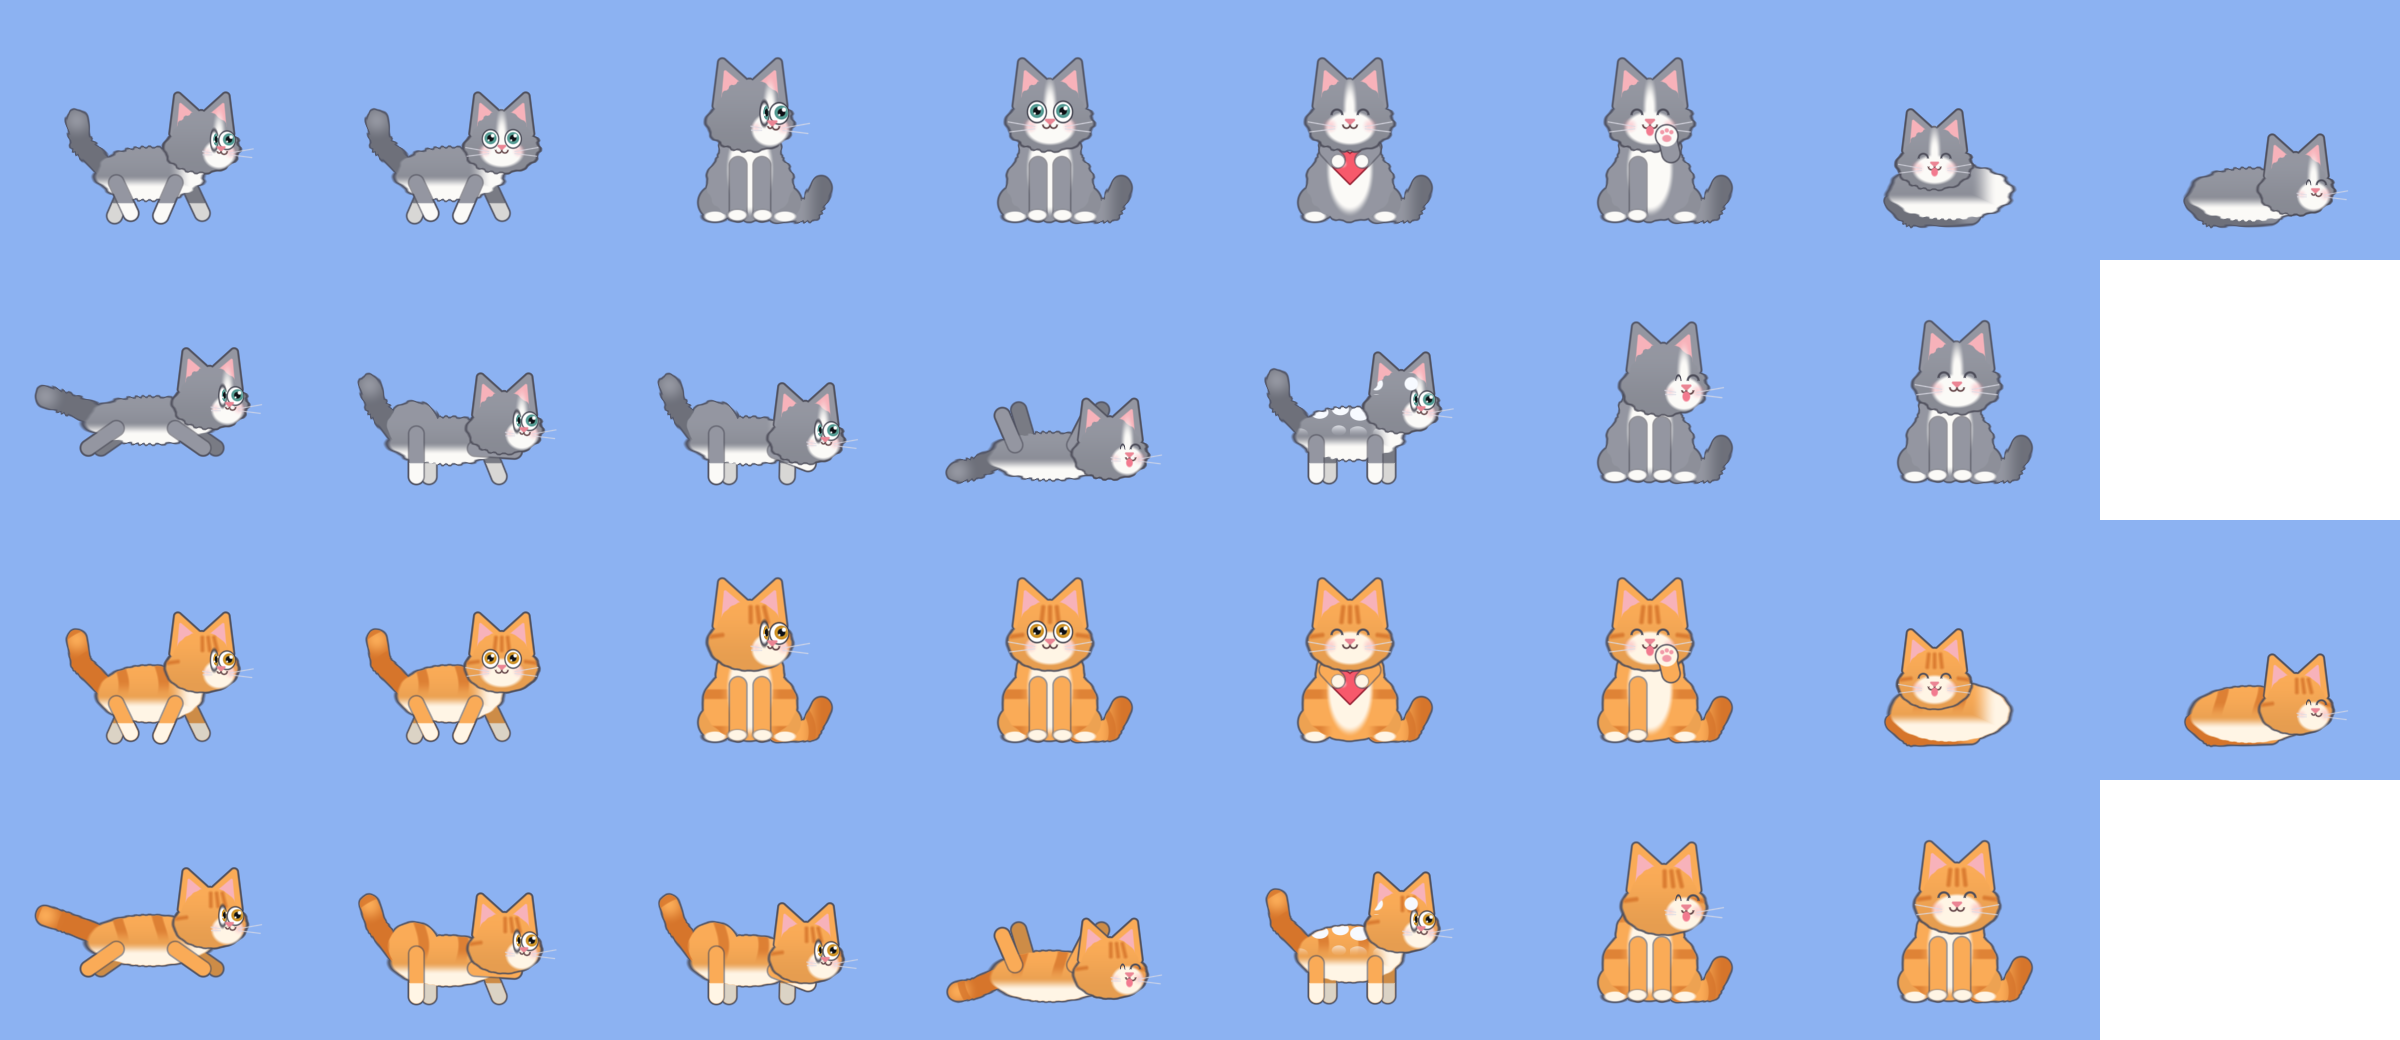
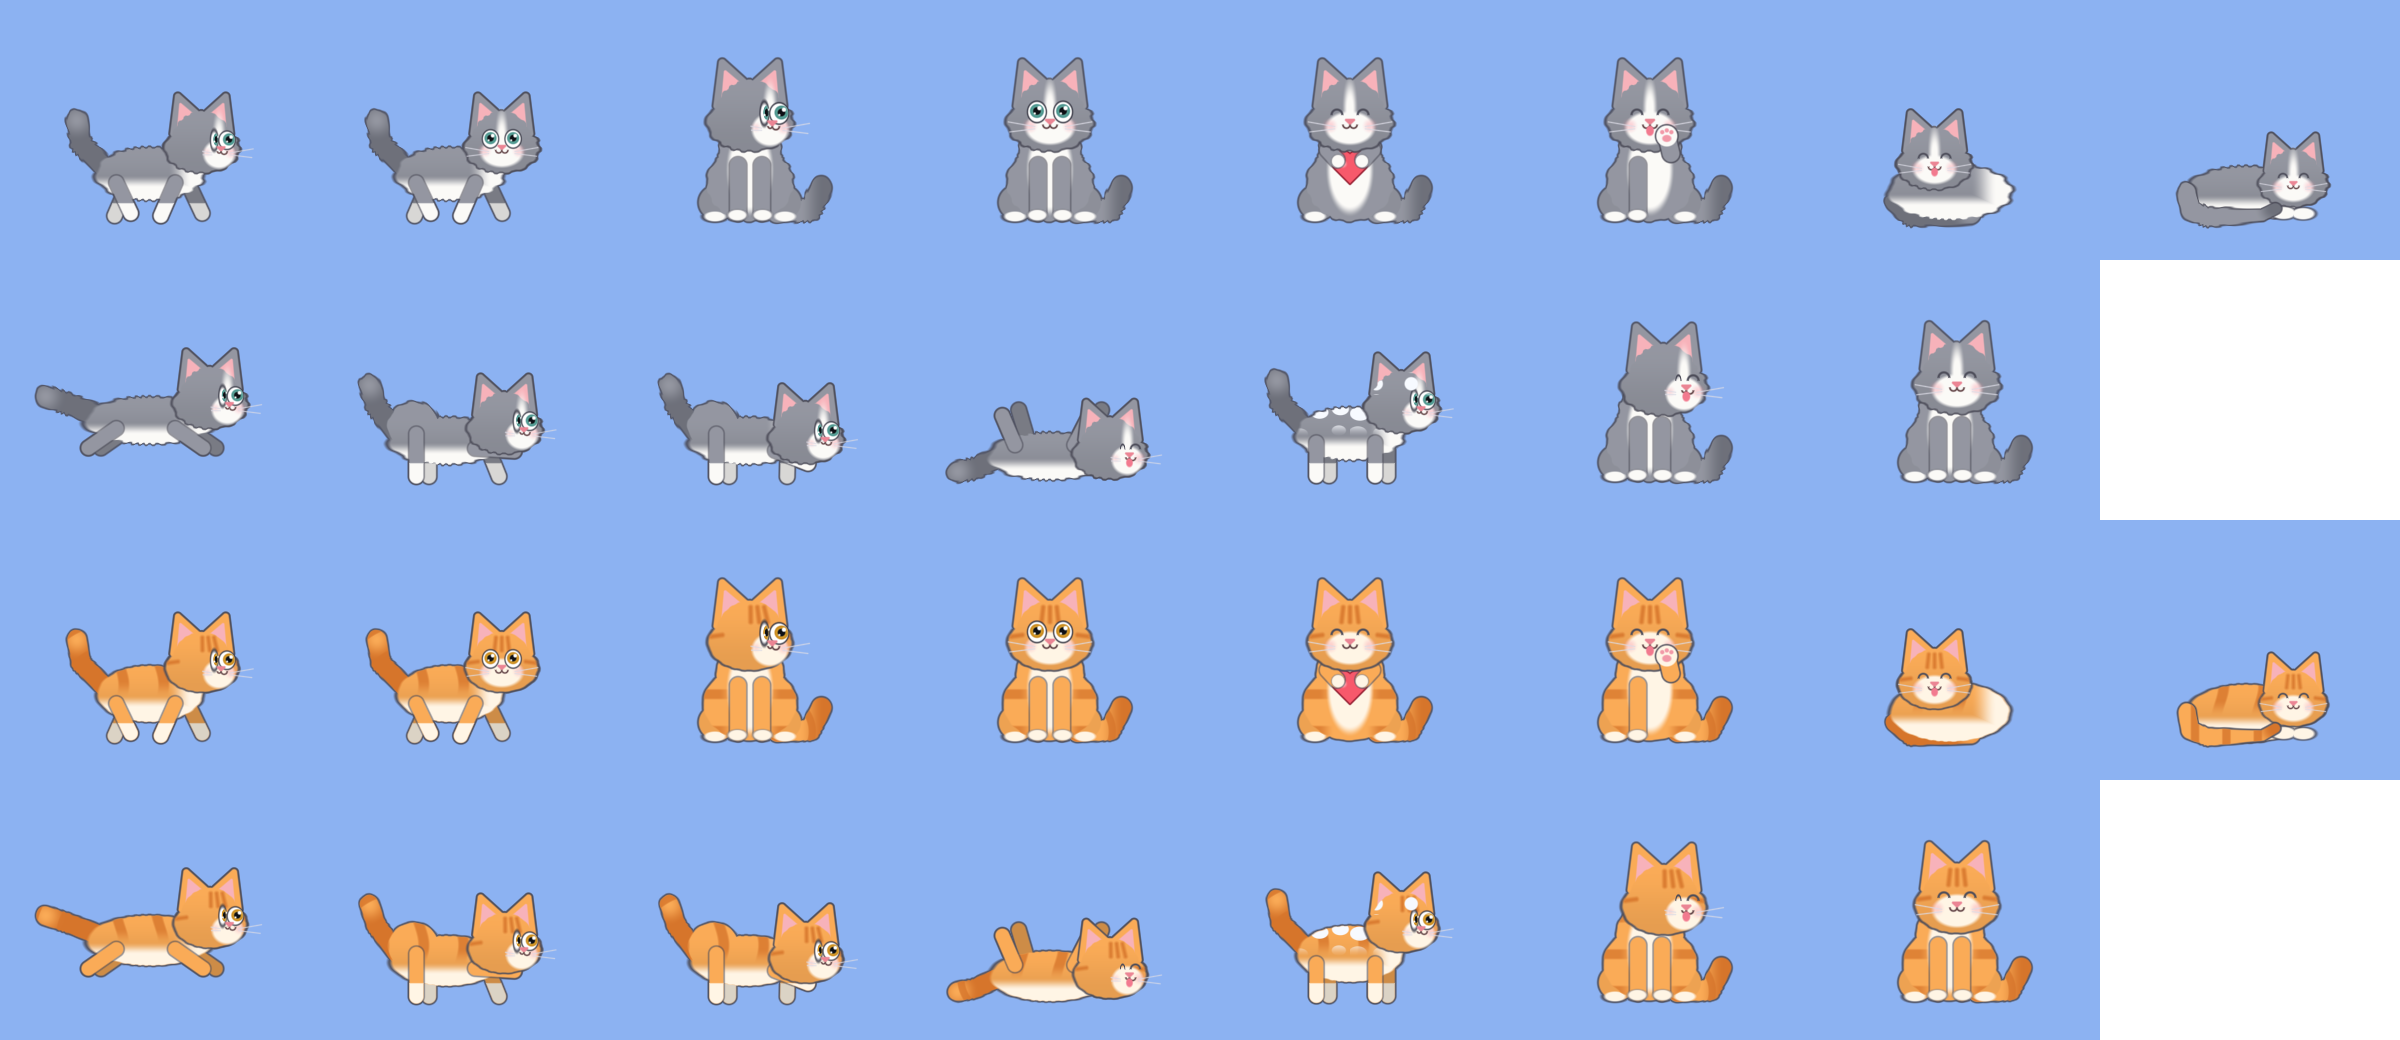
Let a stroked cat sleep until clicked, and show its tail while it naps
- A cat stroked to sleep stays asleep until you click it; its friend
  leaves it be, and clicking wakes it gently instead of startling it
- Sleeping pose curls the tail round under the body to the front paws,
  tapering to a darker tip, with the chin resting on the paws
- The body rises and falls as it breathes

Changed region(s): [[0.9062, 0.6154, 0.9688, 0.7385], [0.9062, 0.1231, 0.9688, 0.2154]]

diff --git a/Sources/WinterPurrch/Renderer.swift b/Sources/WinterPurrch/Renderer.swift
@@ -319,7 +319,7 @@ float4 drawCat(float2 uv, float px, float phase, float facing, float4 ex, float4
         float2 bc = float2(0.0, 0.66), br = float2(0.74, 0.36);
         float2 hc = float2(0.74, 1.12);
         float s = 0.95;
-        if (sleep) { bc = float2(0.0, 0.36); br = float2(0.84, 0.36); hc = float2(0.66, 0.52); }
+        if (sleep) { bc = float2(-0.05, 0.38); br = float2(0.84, 0.37); hc = float2(0.62, 0.6); s = 0.88; }
         if (air)   { bc = float2(0.0, 0.85); br = float2(0.88, 0.32) * (1.0 + 0.12 * ex.y); hc = float2(0.86, 1.18); }
         if (play)  { bc = float2(-0.05, 0.56); br = float2(0.78, 0.32); hc = float2(0.78, 0.82); }
         if (dig)   { bc = float2(-0.05, 0.56); br = float2(0.78, 0.32); hc = float2(0.8, 0.68); }
@@ -327,6 +327,7 @@ float4 drawCat(float2 uv, float px, float phase, float facing, float4 ex, float4
         if (flop)  { bc = float2(0.0, 0.34); br = float2(0.84, 0.32); hc = float2(0.86, 0.46); }
 
         br.y *= k.chub;
+        if (sleep) br.y *= 1.0 + 0.035 * sin(time * 2.2);   // breathing
         float body = sdEll(q, bc, br);
         if (play || dig) body = min(body, sdEll(q, float2(-0.52, 0.76), float2(0.36, 0.34)));
         body -= 0.03 * k.fluff * fur(q, bc, 22.0);
@@ -368,7 +369,8 @@ float4 drawCat(float2 uv, float px, float phase, float facing, float4 ex, float4
         }
 
         float2 t0, t1, t2;
-        if (sleep || groomBack) { t0 = float2(-0.78, 0.25); t1 = float2(-0.55, 0.06); t2 = float2(0.3, 0.08); }
+        if (sleep) { t0 = float2(-0.6, 0.4); t1 = t0; t2 = t0; }   // drawn wrapped round the front instead
+        else if (groomBack) { t0 = float2(-0.78, 0.25); t1 = float2(-0.55, 0.06); t2 = float2(0.3, 0.08); }
         else if (flop) { t0 = float2(-0.78, 0.3); t1 = float2(-1.08, 0.16); t2 = float2(-1.32, 0.12 + 0.05 * sway); }
         else {
             t0 = bc + float2(-br.x * 0.9, br.y * 0.3);
@@ -410,7 +412,23 @@ float4 drawCat(float2 uv, float px, float phase, float facing, float4 ex, float4
             o = over(o, float3(0.97, 0.98, 1.0), fillA(blob, px * 3.6) * stuck);
         }
         bool happy = sleep || flop || groomBack;
-        o = catHeadFull(o, q, hc, s, ex.x, ex.y, happy, flop || groomBack, px, k, groomBack ? 0.0 : turn);
+        o = catHeadFull(o, q, hc, s, ex.x, ex.y, happy, flop || groomBack, px, k, groomBack || sleep ? 0.0 : turn);
+        if (sleep) {
+            // Curled up: chin on its front paws, tail wrapped round the front with its darker tip.
+            float paws = min(sdEll(q, float2(0.48, 0.1), float2(0.17, 0.085)), sdEll(q, float2(0.76, 0.09), float2(0.16, 0.08)));
+            o = over(o, catLine, fillA(paws - 0.022, px) * 0.8);
+            o = over(o, k.white, fillA(paws, px));
+            // From behind the rump, round under the body, tapering, the tip curled up.
+            float2 w0 = float2(-0.9, 0.4), w1 = float2(-0.86, 0.14), w2 = float2(-0.6, 0.04), w3 = float2(0.18, 0.06);
+            float2 w4 = float2(0.36, 0.17 + 0.02 * sway);
+            float path = min(min(segDist(q, w0, w1), segDist(q, w1, w2)), min(segDist(q, w2, w3), segDist(q, w3, w4)));
+            float taper = mix(0.12, 0.065, smoothstep(-0.7, 0.36, q.x));
+            float wrap = path - taper - 0.025 * k.fluff * fur(q, w2, 12.0);
+            o = over(o, catLine, fillA(wrap - 0.025, px) * 0.9);
+            float3 tailCol = mix(k.dark, k.main, smoothstep(0.06, 0.3, length(q - w4)));
+            o = over(o, tailCol, fillA(wrap, px));
+            o = over(o, k.dark, fillA(wrap, px) * k.stripes * smoothstep(0.5, 0.85, sin(q.x * 14.0)) * 0.8);
+        }
         if (ex2.y > 0.01) {
             float2 cell = floor(q * 4.0);
             float2 f = fract(q * 4.0) - 0.5;

diff --git a/Sources/WinterPurrch/Cat.swift b/Sources/WinterPurrch/Cat.swift
@@ -39,6 +39,7 @@ struct Cat {
     var social: Social = .none          // washing its friend, or being washed
     var seeking = false                 // on its way to its friend
     var stroking: Float = 0             // how long the cursor has been stroking it
+    var deepSleep = false               // stroked to sleep: stays asleep until clicked
     var look: Float = 0                 // 1 looking at the viewer, 0 looking where it is going
     var lookTime: Float = 0
     var lookCooldown: Float = rand(4, 10)
@@ -126,8 +127,18 @@ extension SnowSimulation {
     /// A click: the cat jumps; a mug gets drunk. Returns whether something was there.
     func poke(at point: SIMD2<Float>) -> Bool {
         if let i = cats.firstIndex(where: { $0.contains(point) }) {
-            // A cat already in the air can't be startled again.
-            if cats[i].state != .airborne { startle(&cats[i], from: point.x) }
+            if cats[i].state == .sleeping {
+                // Woken gently: it sits up and looks at you.
+                cats[i].state = .sitting
+                cats[i].deepSleep = false
+                cats[i].stroking = 0
+                cats[i].timer = rand(2, 3)
+                cats[i].lookTime = 2.5
+                friendSeek = max(friendSeek, 8)
+            } else if cats[i].state != .airborne {
+                // A cat already in the air can't be startled again.
+                startle(&cats[i], from: point.x)
+            }
             return true
         }
         if let i = mugs.firstIndex(where: { simd_distance($0.center, point) < Mug.size * 1.6 }) {
@@ -148,6 +159,7 @@ extension SnowSimulation {
             c.errand = .none
             c.snowy = 1
             c.startle = 0.6
+            c.deepSleep = false
             c.facing = velocity.x >= 0 ? 1 : -1
             if c.state != .airborne { beginShaking(&c) }
             cats[i] = c
@@ -164,6 +176,7 @@ extension SnowSimulation {
 
     /// A fright from `x`: a short hop straight up with its fur on end, then a dash the other way.
     private func startle(_ c: inout Cat, from x: Float) {
+        c.deepSleep = false
         c.social = .none
         c.seeking = false
         if c.carrying { dropCarriedMug(c) }
@@ -501,7 +514,7 @@ extension SnowSimulation {
         case .walking: walk(&c, l, dt, active)
         case .sitting: sit(&c, l, dt, active)
         case .sleeping:
-            c.timer -= dt
+            if !c.deepSleep { c.timer -= dt }
             if c.timer <= 0 { c.stroking = 0 }
             // Little z's drift up from a sleeping cat.
             c.swatTimer -= dt
@@ -910,9 +923,10 @@ extension SnowSimulation {
         c.petting += dt
         if speed > 40 { c.stroking += dt }
         // Stroked long enough, it purrs itself to sleep.
-        if c.stroking > 2.5 && c.state != .sleeping {
+        if c.stroking > 2.5 && !c.deepSleep {
             c.state = .sleeping
-            c.timer = rand(20, 35)
+            c.deepSleep = true
+            c.timer = 1
             c.social = .none
             c.swatTimer = 0.4
         }

diff --git a/Sources/WinterPurrch/SelfTest.swift b/Sources/WinterPurrch/SelfTest.swift
@@ -209,6 +209,12 @@ enum SelfTest {
             run(3.5) { t in spot + SIMD2(sin(t * 40) * c.size * 0.6, 0) }
             catLine("stroked")
             shot("cat-stroked")
+            run(60)
+            catLine("a minute later, untouched")
+            sim.beginGrab(at: sim.cat!.center)
+            sim.endGrab()
+            run(0.3)
+            catLine("clicked awake")
         }
 
         // The two friends meet on the ground: they nuzzle or play tag.

diff --git a/README.md b/README.md
@@ -19,7 +19,7 @@ WinterPurrch lives in the menu bar. It draws with Metal in a transparent overlay
 - **Grooming:** they lick a paw and wash their face with it, or turn round to lick their back, especially after shaking off a snowball.
 - **Clumsy:** now and then it trips and flops over with its legs in the air and its tongue out, or misjudges the edge of a window and tumbles off. It gets up and shakes the snow off as if nothing happened.
 - **Digging:** it paws at deep drifts, throwing the snow back between its legs until it has dug a hole.
-- **Startle and pet:** click the cat and it hops up with its fur on end, then dashes off. Hit it with a snowball and it shakes the snow out of its fur. Rest the cursor on it and it sits down and purrs, with hearts; stroke it back and forth for a few seconds and it drifts off to sleep.
+- **Startle and pet:** click the cat and it hops up with its fur on end, then dashes off. Hit it with a snowball and it shakes the snow out of its fur. Rest the cursor on it and it sits down and purrs, with hearts; stroke it back and forth for a few seconds and it drifts off to sleep, curled up with its tail round its paws, and stays asleep until you click it awake.
 - **A friend:** a chubby ginger tabby with short fur and amber eyes keeps it company. The two go looking for each other, and when they meet they touch noses, wash each other's heads, curl up together for a nap, play-fight, or play tag. Sometimes one just tags along behind the other.
 - **Their own business:** they mostly look where they're going and only now and then glance up at you.
 - **Adjustable size:** a Cat Size slider in the menu, and a Friend toggle.
